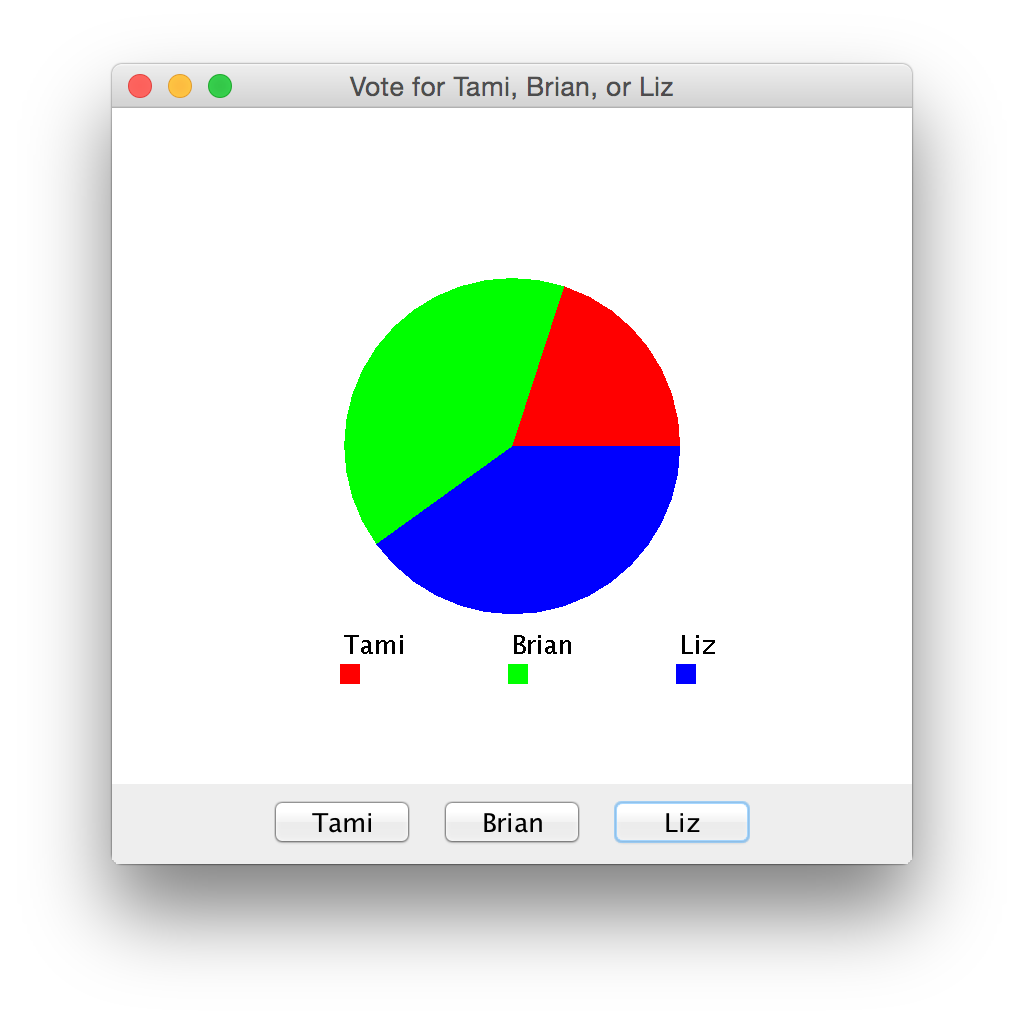
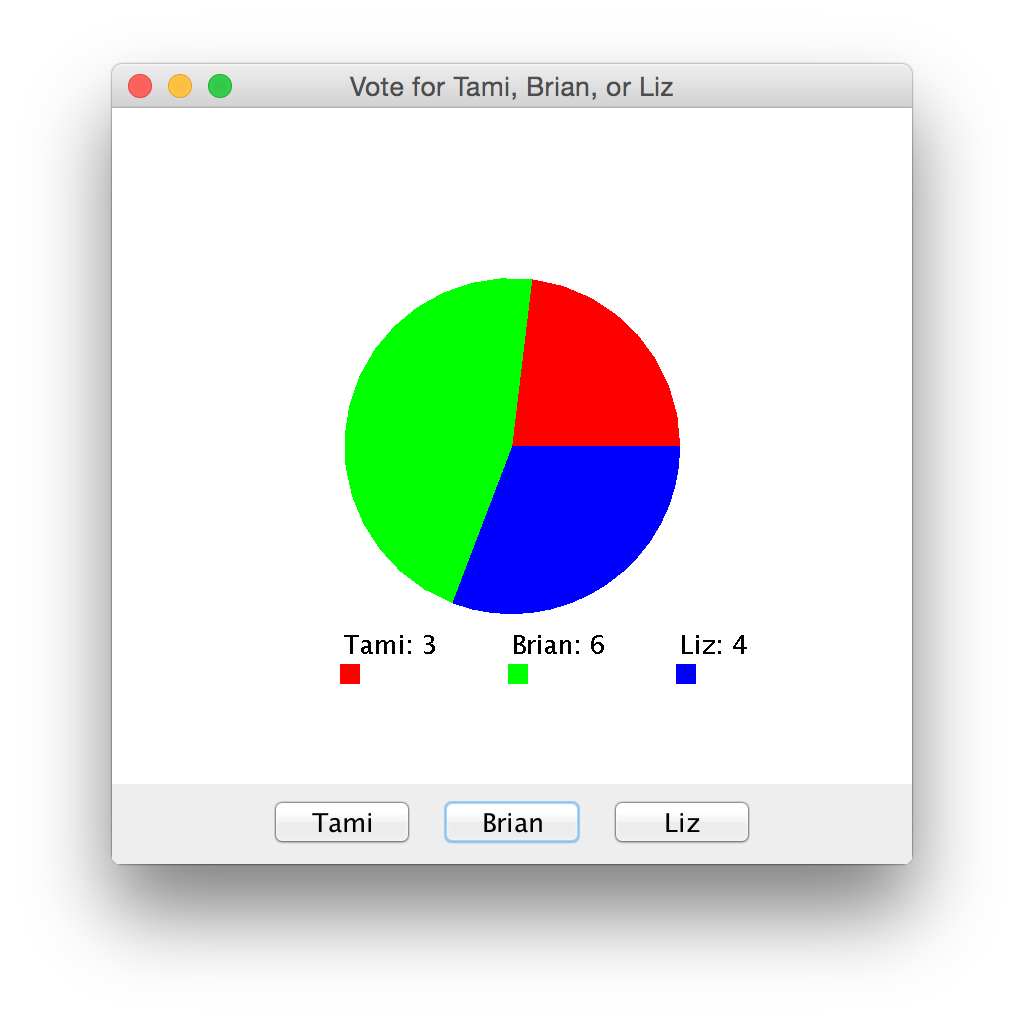
Poll now shows counting with names live, and updated submission files to reflect that

diff --git a/fall/homework/poll/PollDisplayPanel.java b/fall/homework/poll/PollDisplayPanel.java
@@ -59,15 +59,6 @@ public class PollDisplayPanel extends JPanel {
   }
 
   // Draws the pie chart.
-  // To avoid gaps in the picture, the following algorithm is used:
-  // 1. set fromDegree to 0;
-  // 2. draw the red sector and increment fromDegree by its size
-  // 3. draw the green sector and increment fromDegree by its size
-  // 4. set the size of the blue sector to the remaining
-  //    area, 360 - fromDegree, but not less than 0:
-  //      degrees = Math.max(360 - fromDegree, 0);
-  //    (Occasionally, due to rounding errors, fromDegree may become 361,
-  //    for example, count1 = 5, count2 = 11, count3 = 0.)
   private void drawPieChart(Graphics g, int x, int y, int r) {
     int total = count1 + count2 + count3;
     int fromDegree = 0;
@@ -101,9 +92,9 @@ public class PollDisplayPanel extends JPanel {
     y += (r + 20);
     g.setColor(Color.BLACK);
 
-    g.drawString(name1 , x - r, y);
-    g.drawString(name2 , x, y);
-    g.drawString(name3 , x + r, y);
+    g.drawString(name1 + ": " + count1 , x - r, y);
+    g.drawString(name2 + ": " + count2 , x, y);
+    g.drawString(name3 + ": " + count3 , x + r, y);
 
     // Display the color squares:
     y += 5;
